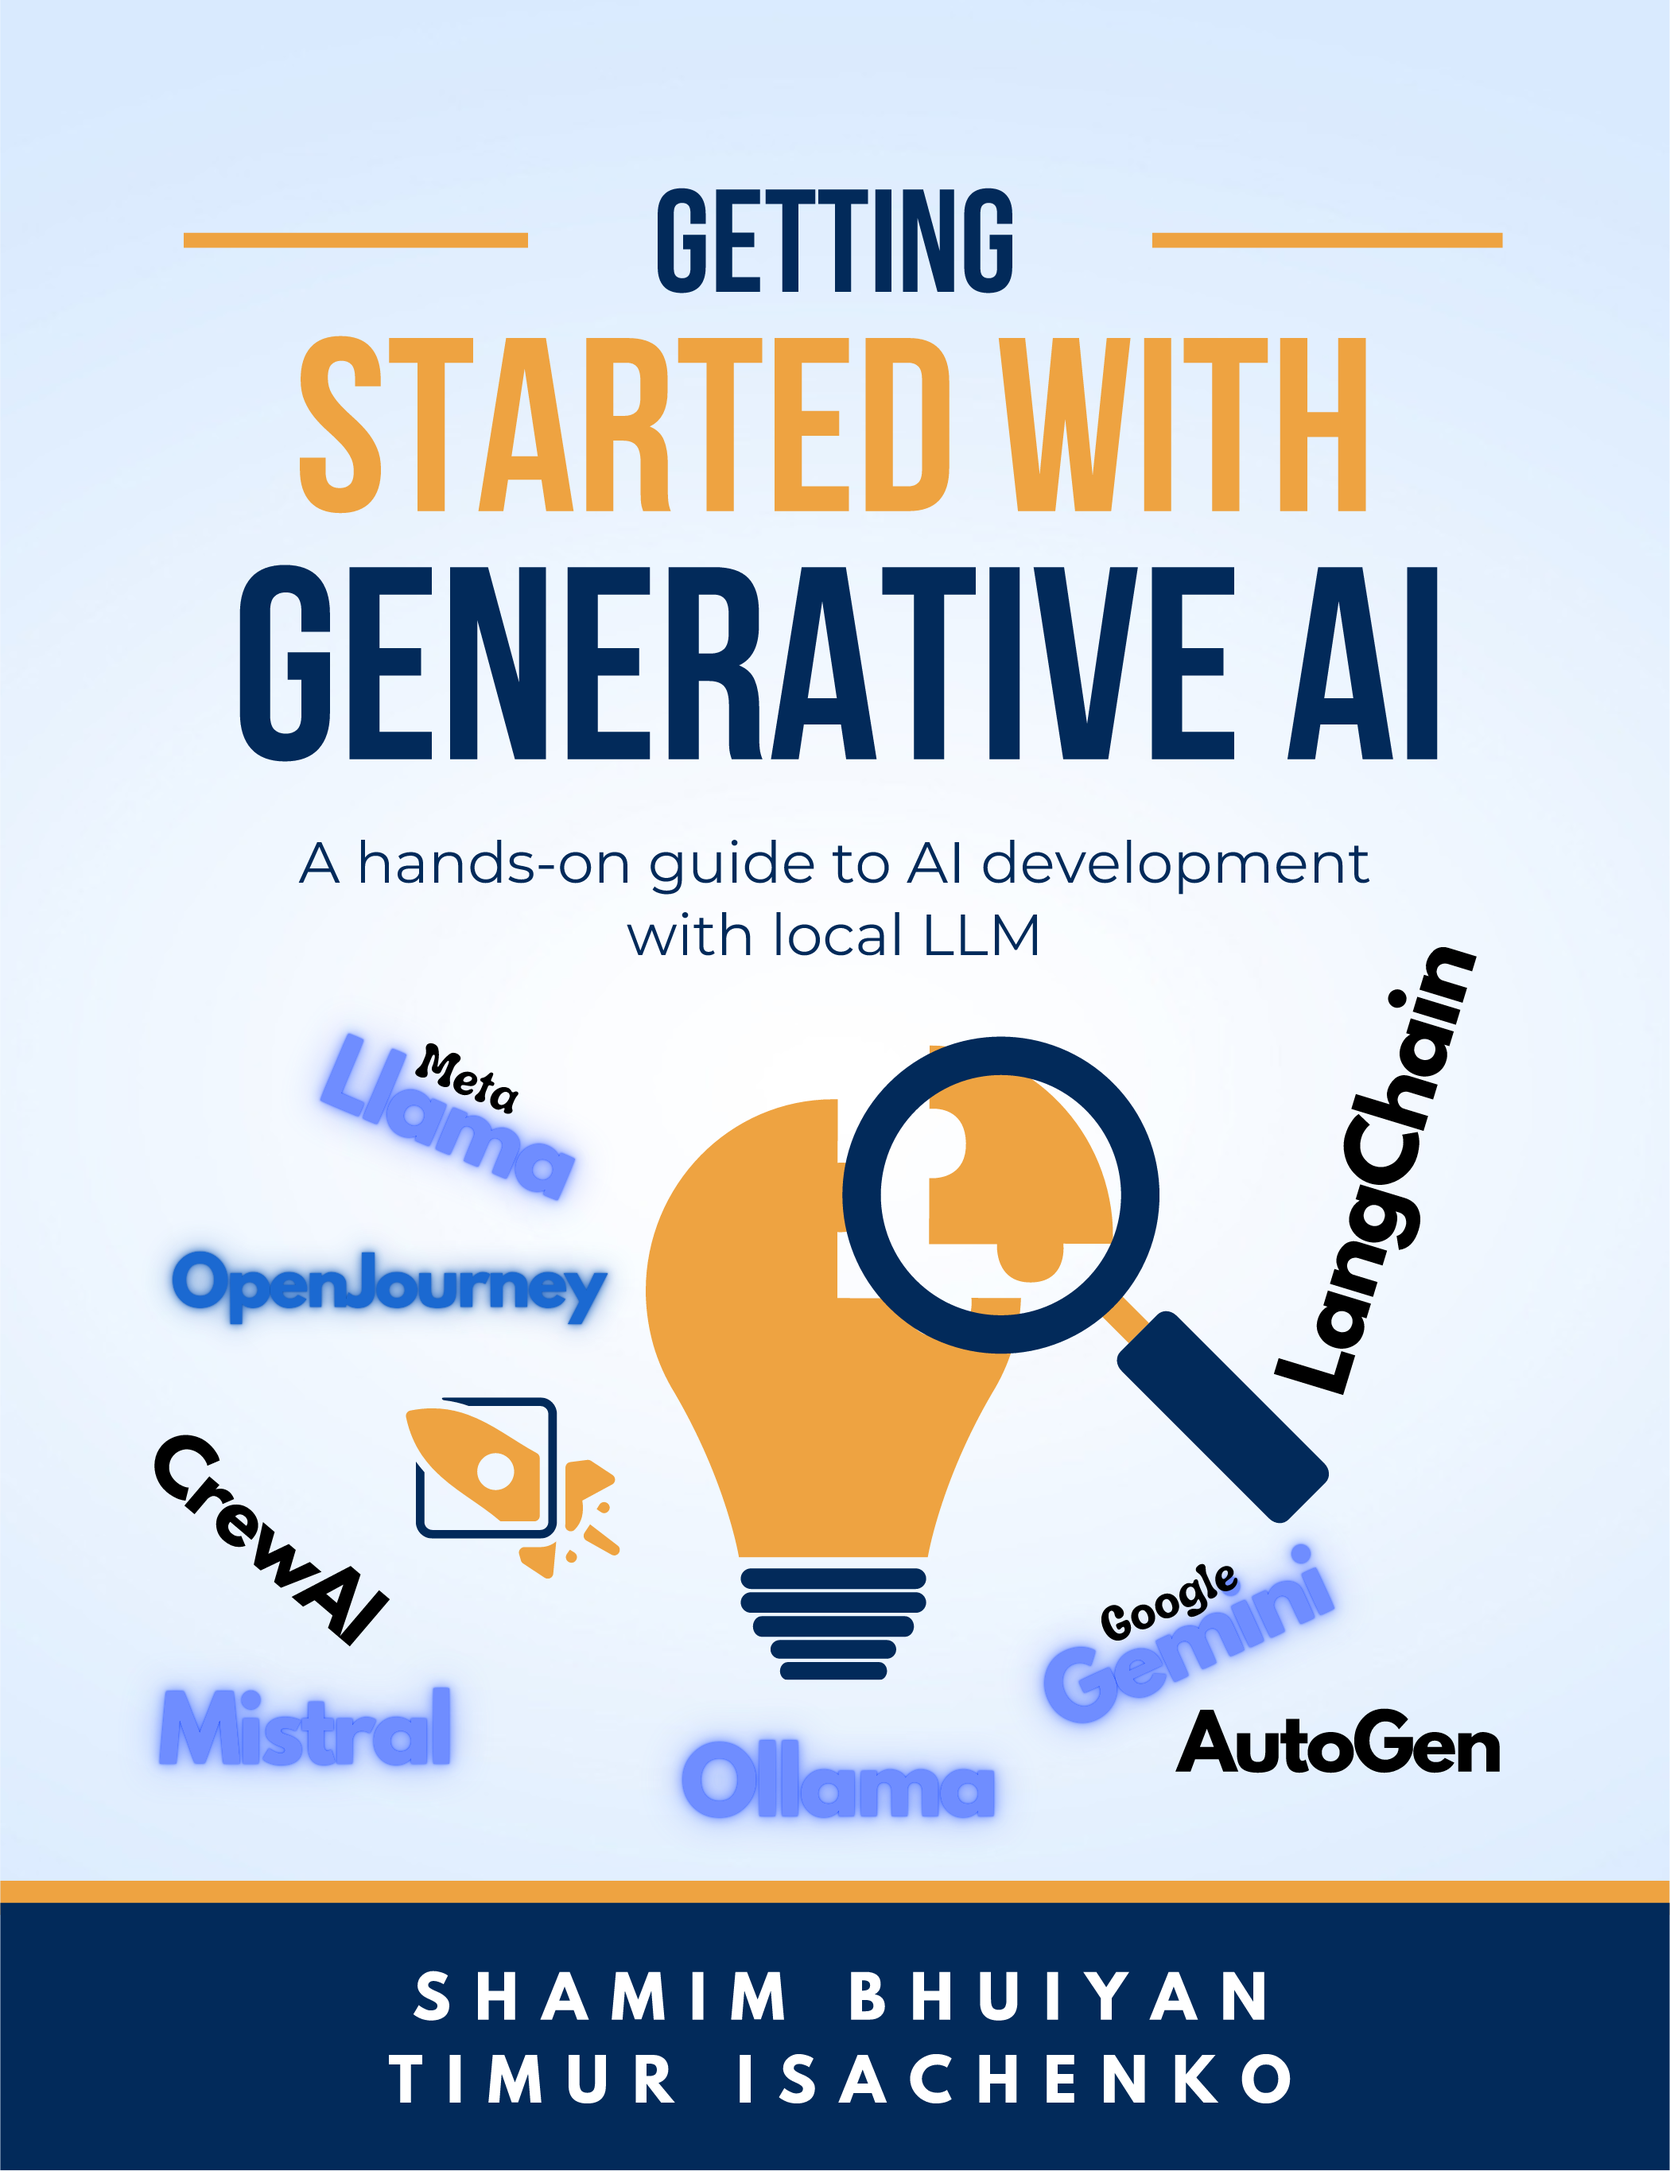
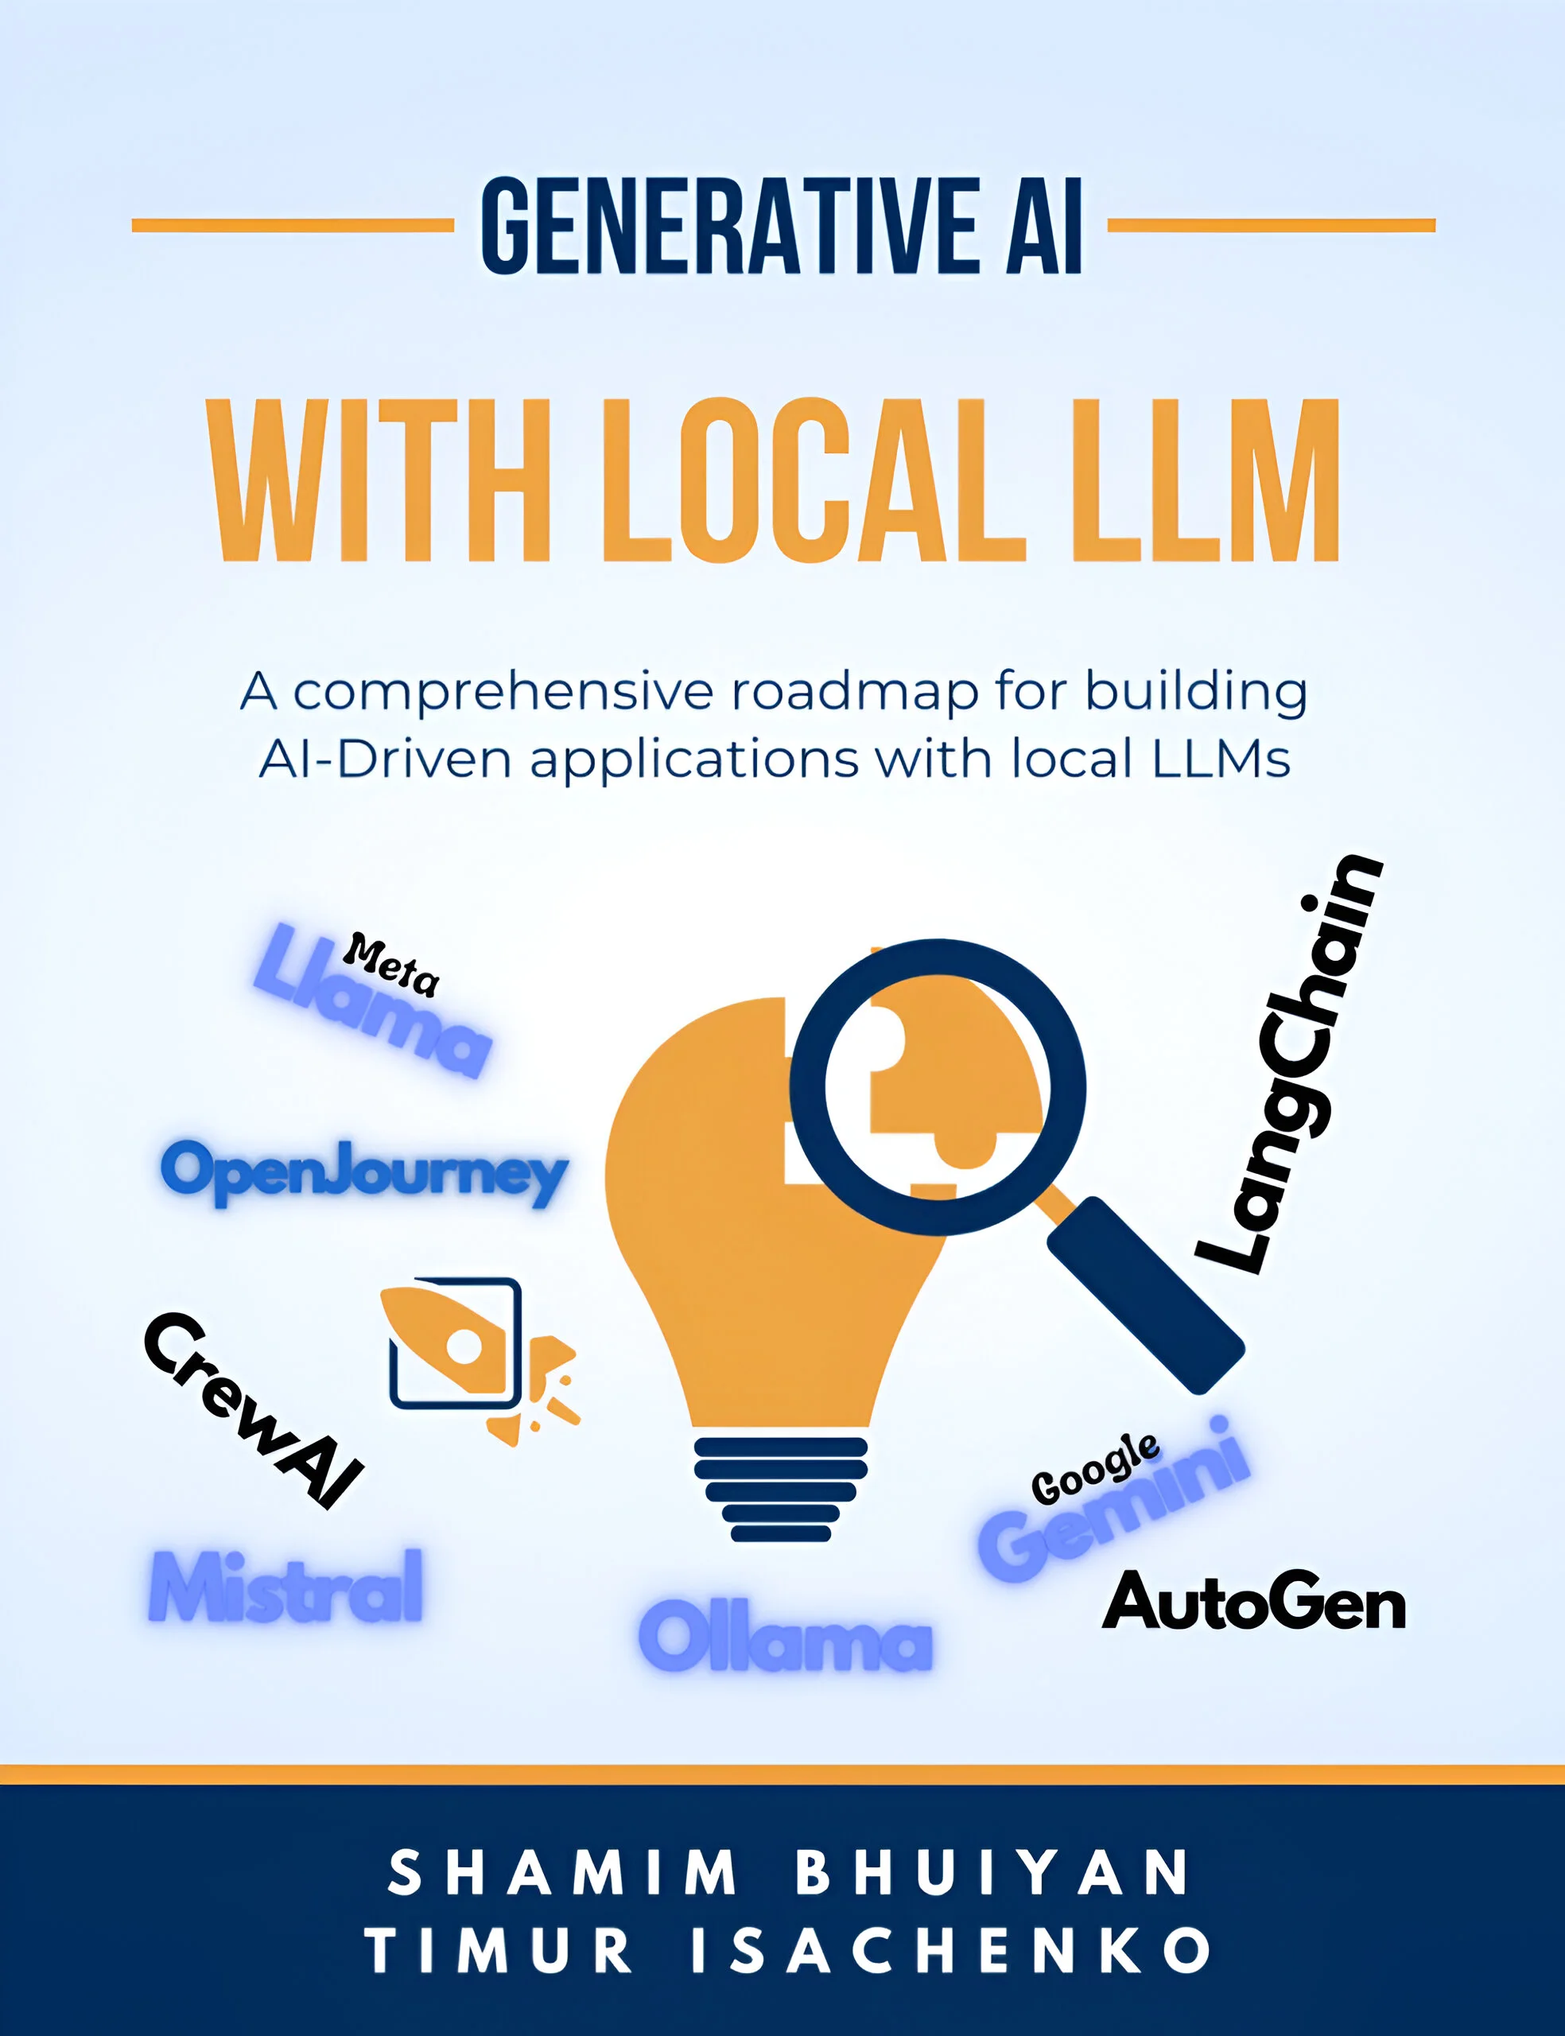
rnamed the book, added testimonials and fixed dependent namings

diff --git a/components/enhanced-landing-page.tsx b/components/enhanced-landing-page.tsx
@@ -25,8 +25,8 @@ const ThreeDBookSection = dynamic(
 
 const content = {
   "header": {
-    "title": "Getting started with ",
-    "subtitle": "Generative AI", // Ensure this exists if you're using it
+    "title": "Generative AI with",
+    "subtitle": "Local LLM", // Ensure this exists if you're using it
     "navLinks": {
       "features": "Features",
       "authors": "Authors",
@@ -225,6 +225,12 @@ const content = {
         "role": "Author of the book \"AI Driven\"",
         "image": "/images/testimonials/victor-shilo.jpg"
       },
+      {
+        "content": "In contrast to my book AI Driven, which targets CxOs, Timur's book offers practical insights for architects and developers. I had the privilege of reading a pre-release version, and as an engineer at heart, I found it easy to follow from chapter to chapter. Highly recommended!",
+        "author": "Lucy Tai",
+        "role": "NLP Engineer at StandupAI",
+        "image": "/images/testimonials/lucy-tai.jpg"
+      }
     ]
   }
 }
@@ -630,11 +636,11 @@ export function EnhancedLandingPageComponent() {
         <RoadmapSection />
         <WhyOutstandingSection />
         <FeaturesSection />
-        {isDesktop && (
-          <Suspense fallback={<div>Loading 3D Book...</div>}>
-            <ThreeDBookSection />
-          </Suspense>
-        )}
+        {/*{isDesktop && (*/}
+        {/*  <Suspense fallback={<div>Loading 3D Book...</div>}>*/}
+        {/*    <ThreeDBookSection />*/}
+        {/*  </Suspense>*/}
+        {/*)}*/}
         <TestimonialsSection />
         <AuthorsSection />
         <CallToActionSection />

diff --git a/components/testimonials-section.tsx b/components/testimonials-section.tsx
@@ -7,7 +7,6 @@ import { motion, AnimatePresence } from "framer-motion"
 import { ChevronLeft, ChevronRight, Quote } from 'lucide-react'
 import { cn } from "@/lib/utils"
 
-// Add more testimonials with diverse roles and perspectives
 const testimonials = [
     {
         content: "In contrast to my book AI Driven, which targets CxOs, Timur's book offers practical insights for architects and developers. I had the privilege of reading a pre-release version, and as an engineer at heart, I found it easy to follow from chapter to chapter. Highly recommended!",
@@ -17,10 +16,10 @@ const testimonials = [
         rating: 5
     },
     {
-        content: "As a Software Architect with 15+ years of experience, I appreciate how this book bridges the gap between theory and practice. The local LLM setup guide alone saved our team weeks of research.",
-        author: "Sarah Chen",
-        role: "Principal Software Architect at TechCorp",
-        image: "/images/testimonials/sarah-chen.jpg",
+        content: "I really appreciated the effort to explain key concepts and break down the symbolism behind them. Including a code base was a huge plus—it made everything feel solid and practical. The examples were clear and easy to follow, making the learning experience enjoyable and effective.",
+        author: "Lucy Tai",
+        role: "Data Scientist at Growth Engine AI",
+        image: "/images/testimonials/lucy-tai.jpg",
         rating: 4
     },
     {

diff --git a/app/layout.tsx b/app/layout.tsx
@@ -50,17 +50,17 @@ export const metadata: Metadata = {
     type: 'website',
     locale: 'en_US',
     url: 'https://quickstartwithai.com',
-    siteName: 'Getting Started with Generative AI',
+    siteName: 'Generative AI with Local LLM',
     images: [{
       url: '/og-image.jpg',
       width: 1200,
       height: 630,
-      alt: 'Getting Started with Generative AI Book Cover'
+      alt: 'Generative AI with Local LLM - Book Cover'
     }]
   },
   twitter: {
     card: 'summary_large_image',
-    title: 'Getting Started with Generative AI - Local LLM Development Guide',
+    title: 'Generative AI - Local LLM Development Guide',
     description: 'Master Generative AI development with local LLM inference. A practical guide for developers.',
     images: ['/og-image.jpg']
   }

diff --git a/components/NavBar.tsx b/components/NavBar.tsx
@@ -36,7 +36,7 @@ export function NavBar() {
                 <Link href="/" className="flex items-center space-x-2">
                     <Brain className="h-6 w-6 sm:h-8 sm:w-8 text-blue-600" />
                     <h1 className="text-lg sm:text-2xl font-bold">
-                        Getting started with <span className="inline-block text-blue-600">Generative AI</span>
+                        Generative AI with <span className="inline-block text-blue-600">Local LLM</span>
                     </h1>
                 </Link>
 

diff --git a/app/structured-data.tsx b/app/structured-data.tsx
@@ -2,7 +2,7 @@ export default function generateStructuredData() {
     return {
         "@context": "https://schema.org",
         "@type": "Book",
-        "name": "Getting Started with Generative AI",
+        "name": "Generative AI with Local LLM",
         "alternateName": "Local LLM Development Guide",
         "author": [
             {
